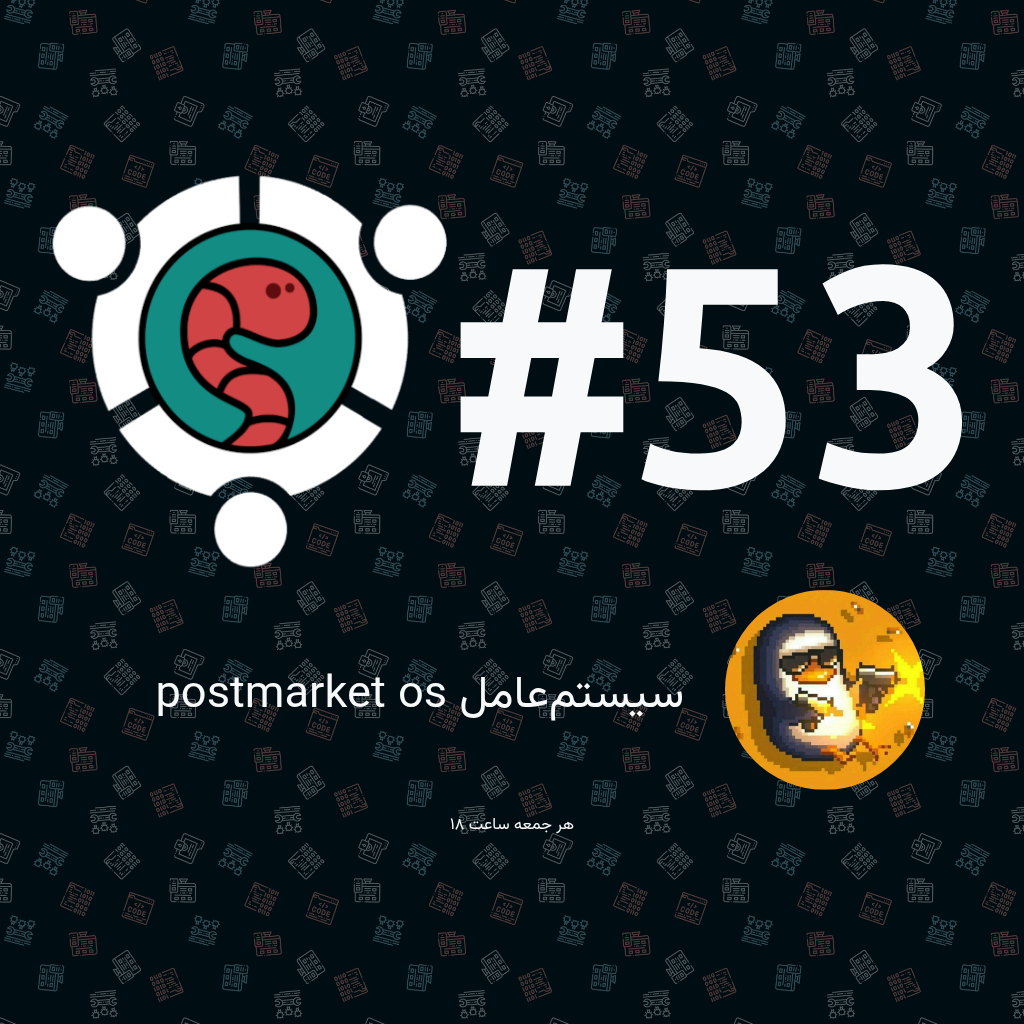
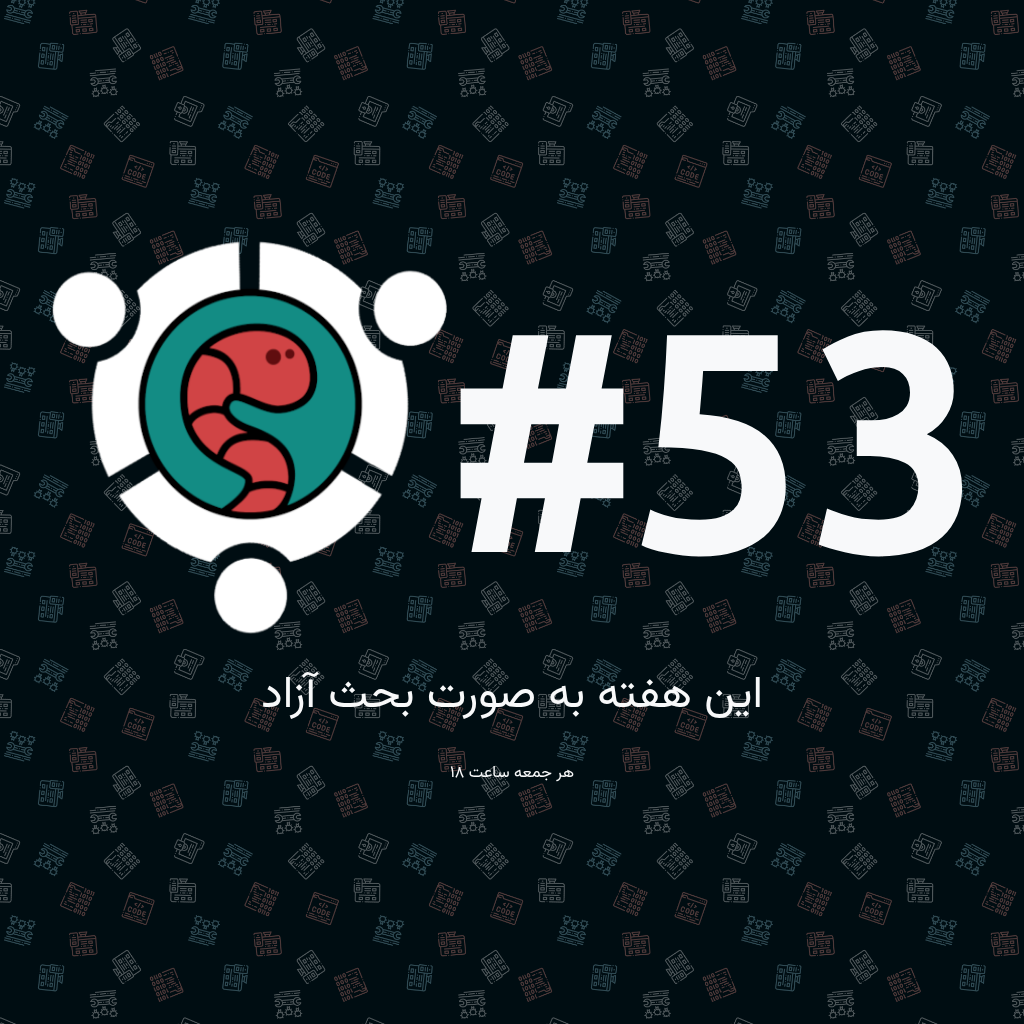
deploy: c12f63c4bfc80ef5e593cba2a9014e5f6af48917

Changed region(s): [[0.0312, 0.1562, 0.9375, 0.7812], [0.4375, 0.75, 0.5625, 0.8125]]

diff --git a/53/index.html b/53/index.html
@@ -4,8 +4,8 @@
 <head>
     <meta charset="UTF-8">
     <meta name="viewport" content="width=device-width, initial-scale=1.0">
-        <meta property="og:title" content="دورهمی #53 کرمهای کامپیوتر - سیستمعامل postmarket os" />
-            <meta name="og:description" content="دورهمی #53 کرمهای کامپیوتر جمعه ساعت ۱۸  دربارهٔ سیستمعامل postmarket os گفتوگوی سهراب بهدانی"/>
+        <meta property="og:title" content="دورهمی #53 کرمهای کامپیوتر" />
+            <meta name="og:description" content="دورهمی #53 کرمهای کامپیوتر جمعه ساعت ۱۸ "/>
     <meta property="og:url" content="https://meet.pcworms.ir" />
     <meta property="og:image" content="./preview.png" />
     <title>دورهمیهای کرمهای کامپیوتر</title>
@@ -91,19 +91,9 @@
                 <small>هر جمعه ساعت ۱۸</small>
             </div>
         </div>
-        <div class="row justify-content-center">
-            <div class="col-12 col-sm-10 col-md-8 p-2 subject-bg">
-                <div class=" row align-items-center">
-                    <div class="col-auto float-start text-center"><img src="assets&#x2F;avatars&#x2F;sohrab.jpg" class="profile"></div>
-                    <div class="col">
-                        <small class="speaker d-block">
-                            سهراب بهدانی:
-                        </small>
-                        <h2 class="subject">سیستمعامل postmarket os</h2>
-                        <div class="text-center">
-                            <small class="time" id="counter"></small>
-                        </div>
-                    </div>
+            <div class="row justify-content-center text-center">
+                <div class="text-center">
+                    <small id="counter"></small>
                 </div>
             </div>
             <div class="text-center">

diff --git a/index.html b/index.html
@@ -4,8 +4,8 @@
 <head>
     <meta charset="UTF-8">
     <meta name="viewport" content="width=device-width, initial-scale=1.0">
-        <meta property="og:title" content="دورهمی #53 کرمهای کامپیوتر - سیستمعامل postmarket os" />
-            <meta name="og:description" content="دورهمی #53 کرمهای کامپیوتر جمعه ساعت ۱۸  دربارهٔ سیستمعامل postmarket os گفتوگوی سهراب بهدانی"/>
+        <meta property="og:title" content="دورهمی #53 کرمهای کامپیوتر" />
+            <meta name="og:description" content="دورهمی #53 کرمهای کامپیوتر جمعه ساعت ۱۸ "/>
     <meta property="og:url" content="https://meet.pcworms.ir" />
     <meta property="og:image" content="./preview.png" />
     <title>دورهمیهای کرمهای کامپیوتر</title>
@@ -91,19 +91,9 @@
                 <small>هر جمعه ساعت ۱۸</small>
             </div>
         </div>
-        <div class="row justify-content-center">
-            <div class="col-12 col-sm-10 col-md-8 p-2 subject-bg">
-                <div class=" row align-items-center">
-                    <div class="col-auto float-start text-center"><img src="assets&#x2F;avatars&#x2F;sohrab.jpg" class="profile"></div>
-                    <div class="col">
-                        <small class="speaker d-block">
-                            سهراب بهدانی:
-                        </small>
-                        <h2 class="subject">سیستمعامل postmarket os</h2>
-                        <div class="text-center">
-                            <small class="time" id="counter"></small>
-                        </div>
-                    </div>
+            <div class="row justify-content-center text-center">
+                <div class="text-center">
+                    <small id="counter"></small>
                 </div>
             </div>
             <div class="text-center">

diff --git a/53/preview.html b/53/preview.html
@@ -25,12 +25,9 @@
             </div>
         </div>
         <div class="row justify-content-center">
-                <div class="col-12 col-md-10 p-2"">
-                    <div class=" row align-items-center">
-                    <div class="col">
-                        <h2 class="subject" dir="rtl">سیستمعامل postmarket os</h2>
-                    </div>
-                    <div class="col-auto float-start text-center"><img src="assets&#x2F;avatars&#x2F;sohrab.jpg" class="profile"></div>
+                <div class="col-12 p-2 text-center">
+                    <h2 class="subject" dir="rtl">این هفته به صورت بحث آزاد</h2>
+                </div>
         </div>
         <div class="row justify-content-center">
             <div class="col-12 p-2 text-center">

diff --git a/preview.html b/preview.html
@@ -25,12 +25,9 @@
             </div>
         </div>
         <div class="row justify-content-center">
-                <div class="col-12 col-md-10 p-2"">
-                    <div class=" row align-items-center">
-                    <div class="col">
-                        <h2 class="subject" dir="rtl">سیستمعامل postmarket os</h2>
-                    </div>
-                    <div class="col-auto float-start text-center"><img src="assets&#x2F;avatars&#x2F;sohrab.jpg" class="profile"></div>
+                <div class="col-12 p-2 text-center">
+                    <h2 class="subject" dir="rtl">این هفته به صورت بحث آزاد</h2>
+                </div>
         </div>
         <div class="row justify-content-center">
             <div class="col-12 p-2 text-center">
